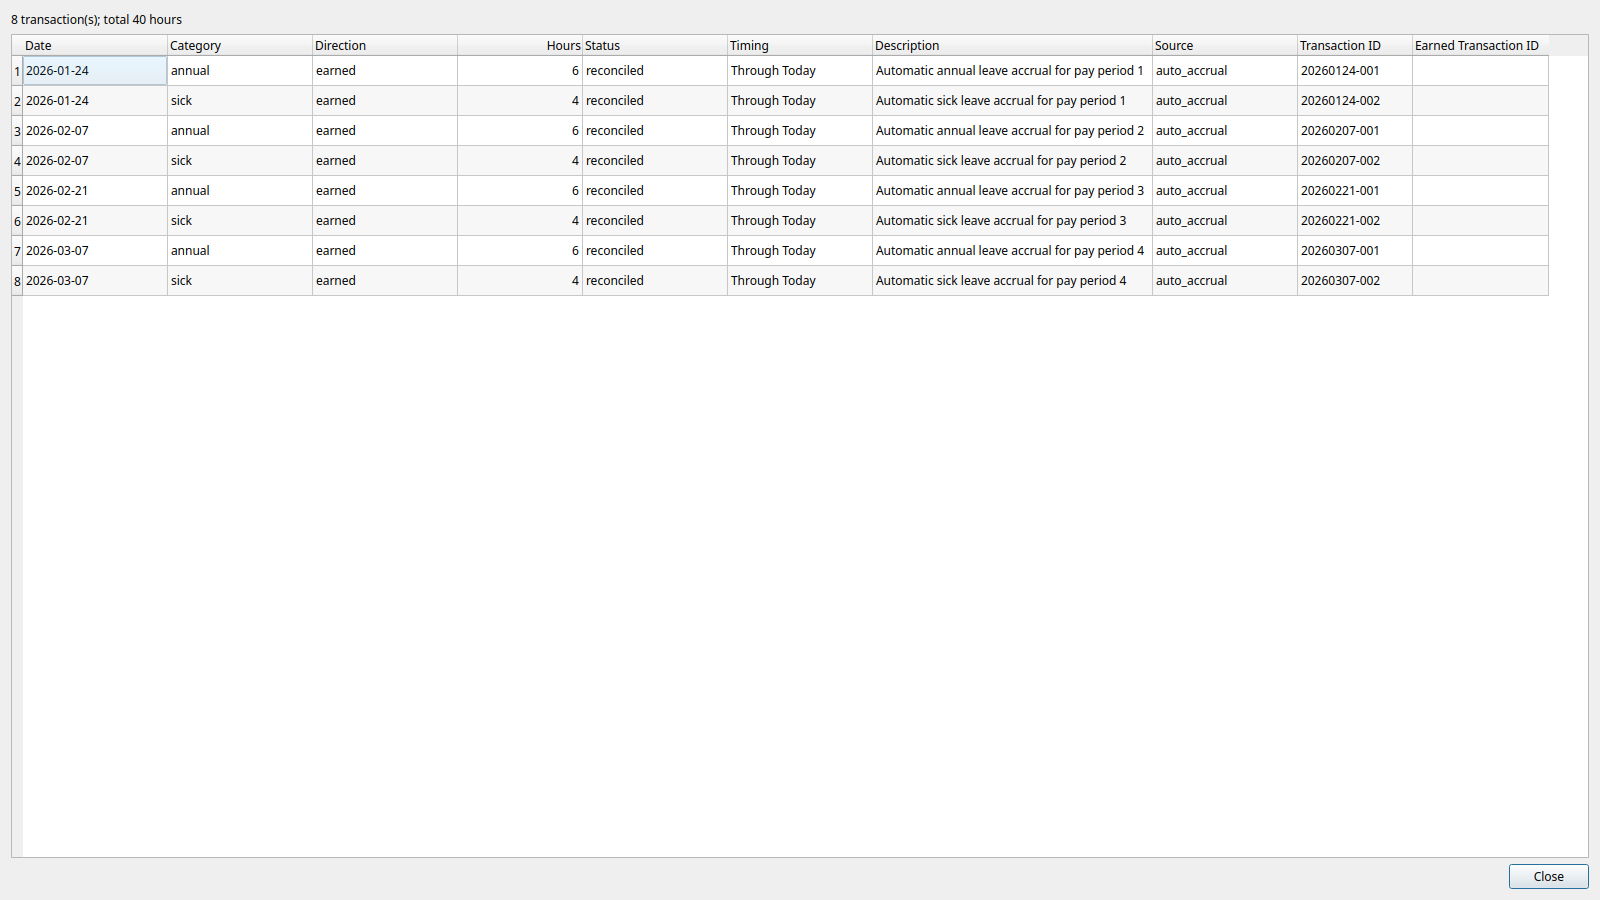
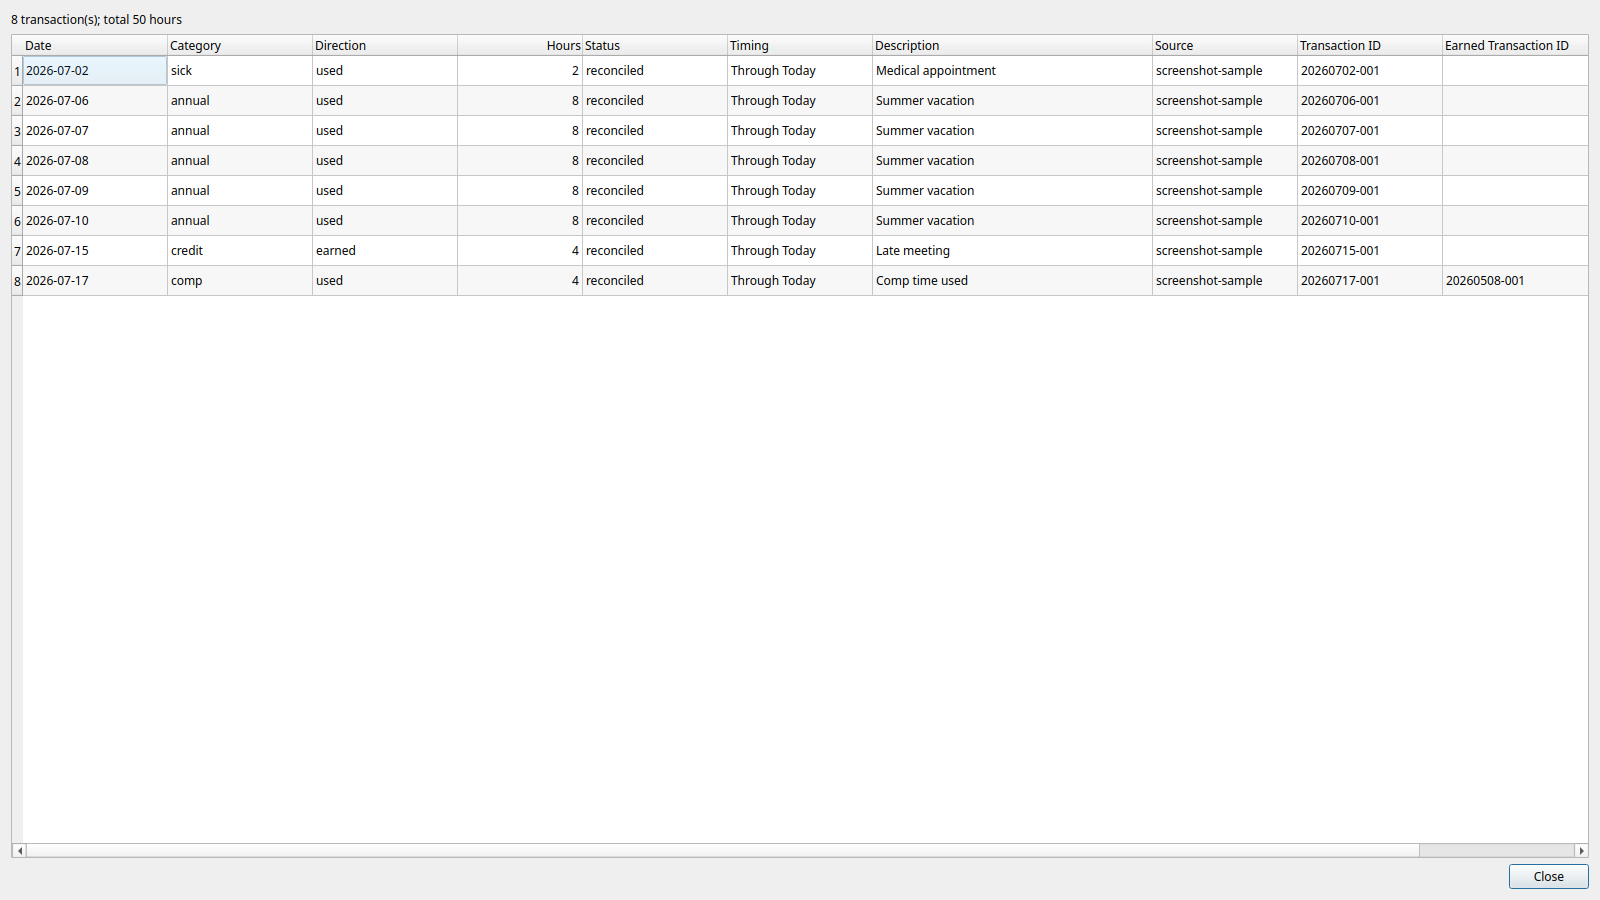
Improve GUI and analytics screenshots

diff --git a/scripts/lib/common/generate_readme_screenshots.py b/scripts/lib/common/generate_readme_screenshots.py
@@ -2,6 +2,7 @@ from __future__ import annotations
 
 import json
 import os
+from datetime import date
 from pathlib import Path
 import subprocess
 import sys
@@ -53,20 +54,41 @@ def _sample_data(data_dir: Path) -> None:
         leave_year = load_json(path)
         entries = [
             (f"{year}-02-06", "annual", "used", 8, "Winter annual leave"),
-            (f"{year}-03-17", "sick", "used", 4, "Medical appointment"),
-            (f"{year}-04-11", "credit", "earned", 3 + index, "Project support"),
-            (f"{year}-04-18", "credit", "used", 2, "Credit hours used"),
-            (f"{year}-05-09", "comp", "earned", 6 + index, "Release support"),
+            (f"{year}-02-20", "sick", "used", 4, "Medical appointment"),
+            (f"{year}-03-06", "annual", "used", 8, "Long weekend"),
+            (f"{year}-03-17", "sick", "used", 8, "Sick leave"),
+            (f"{year}-03-27", "overtime", "worked", 4 + index, "Quarter-end support"),
+            (f"{year}-04-10", "credit", "earned", 3 + index, "Project support"),
+            (f"{year}-04-17", "credit", "used", 2, "Credit hours used"),
+            (f"{year}-04-24", "annual", "used", 8, "Annual leave"),
+            (f"{year}-05-08", "comp", "earned", 8 + index, "Release support"),
             (f"{year}-05-22", "overtime", "worked", 5 + index, "Overtime worked"),
-            (f"{year}-06-12", "travel_comp", "earned", 8, "Official travel"),
-            (f"{year}-06-26", "time_off_award", "earned", 8, "Time-off award"),
-            (f"{year}-07-03", "annual", "used", 16 + index * 2, "Summer leave"),
-            (f"{year}-07-17", "comp", "used", 3, "Comp time used"),
-            (f"{year}-08-14", "annual", "used", 8, "Scheduled annual leave"),
-            (f"{year}-09-04", "sick", "used", 8, "Scheduled medical leave"),
+            (f"{year}-05-29", "sick", "used", 4, "Medical appointment"),
+            (f"{year}-06-05", "travel_comp", "earned", 10, "Official travel"),
+            (f"{year}-06-12", "time_off_award", "earned", 16, "Time-off award"),
+            (f"{year}-06-19", "travel_comp", "used", 4, "Travel comp used"),
+            (f"{year}-06-26", "annual", "used", 8, "Annual leave"),
+            (f"{year}-07-02", "sick", "used", 2, "Medical appointment"),
+            (f"{year}-07-06", "annual", "used", 8, "Summer vacation"),
+            (f"{year}-07-07", "annual", "used", 8, "Summer vacation"),
+            (f"{year}-07-08", "annual", "used", 8, "Summer vacation"),
+            (f"{year}-07-09", "annual", "used", 8, "Summer vacation"),
+            (f"{year}-07-10", "annual", "used", 8, "Summer vacation"),
+            (f"{year}-07-15", "credit", "earned", 2 + index, "Late meeting"),
+            (f"{year}-07-17", "comp", "used", 4, "Comp time used"),
+            (f"{year}-07-21", "sick", "used", 2, "Medical appointment"),
+            (f"{year}-07-24", "travel_comp", "used", 4, "Travel comp used"),
+            (f"{year}-07-31", "time_off_award", "used", 8, "Time-off award used"),
+            (f"{year}-08-14", "annual", "used", 8, "Annual leave"),
+            (f"{year}-08-28", "credit", "used", 3, "Credit hours used"),
+            (f"{year}-09-04", "sick", "used", 8, "Medical leave"),
+            (f"{year}-09-18", "comp", "earned", 6 + index, "Deployment support"),
             (f"{year}-10-09", "overtime", "worked", 7 + index, "Quarter-end support"),
-            (f"{year}-11-20", "annual", "used", 24, "Holiday leave"),
+            (f"{year}-10-23", "comp", "forfeited", 2, "Comp time forfeited"),
+            (f"{year}-11-20", "annual", "used", 24, "Thanksgiving leave"),
+            (f"{year}-12-04", "sick", "used", 4, "Medical appointment"),
             (f"{year}-12-18", "annual", "used", 16, "Year-end leave"),
+            (f"{year}-12-23", "time_off_award", "used", 4, "Time-off award used"),
         ]
         existing_ids = [str(tx.get("id", "")) for tx in leave_year.get("transactions", [])]
         for day, category, direction, hours, description in entries:
@@ -158,10 +180,15 @@ def _chart_screenshots(data_dir: Path) -> None:
 
 
 def _capture(widget: Any, path: Path, width: int, height: int, app: Any) -> None:
+    from PySide6.QtCore import QCoreApplication, QEvent
+
+    QCoreApplication.sendPostedEvents(None, QEvent.DeferredDelete)
     widget.resize(width, height)
     widget.show()
     for _ in range(5):
         app.processEvents()
+    QCoreApplication.sendPostedEvents(None, QEvent.DeferredDelete)
+    app.processEvents()
     image = widget.grab()
     if not image.save(str(path), "PNG"):
         raise RuntimeError(f"Could not save screenshot: {path}")
@@ -172,7 +199,7 @@ def _capture(widget: Any, path: Path, width: int, height: int, app: Any) -> None
 def _gui_screenshots(data_dir: Path) -> None:
     os.environ.setdefault("QT_QPA_PLATFORM", "offscreen")
     from PySide6.QtCore import QDate
-    from PySide6.QtWidgets import QApplication
+    from PySide6.QtWidgets import QAbstractItemView, QApplication, QSplitter
 
     from fedleave_analytics.analytics import analyze_leave_year
     from fedleave.storage import load_json
@@ -194,7 +221,7 @@ def _gui_screenshots(data_dir: Path) -> None:
     window.month = 7
     window.balance_as_of = window.today
     window.refresh()
-    _capture(window, EXAMPLES / "fedleave-calendar-main-screen.png", 1920, 1080, app)
+    _capture(window, EXAMPLES / "fedleave-calendar-main-screen.png", 2560, 1440, app)
 
     day = {
         "date": "2026-07-17",
@@ -269,13 +296,38 @@ def _gui_screenshots(data_dir: Path) -> None:
             "leave_year_end": payload["leave_year_end"],
             "transactions": payload["transactions"],
             "available_leave_years": [2024, 2025, 2026],
-        }
+        },
+        date(2026, 7, 22),
     )
     analytics = AnalyticsWindow(BACKEND, str(data_dir), 2026, font_size=11, auto_load=False)
     analytics.set_data(analytics_data)
+    analytics.pages.setCurrentIndex(0)
     _capture(analytics, EXAMPLES / "fedleave-analytics-main.png", 1920, 1080, app)
 
-    detail_rows = analytics_data["transactions"][:8]
+    analytics.pages.setCurrentIndex(1)
+    analytics.seasonality_selector.setCurrentText("Leave Used by Month")
+    _capture(analytics, EXAMPLES / "fedleave-analytics-seasonality.png", 1920, 1080, app)
+
+    analytics.pages.setCurrentIndex(2)
+    for row in range(analytics.heatmap_table.rowCount()):
+        item = analytics.heatmap_table.item(row, 0)
+        if item is not None and item.text() == "2026-07-02":
+            analytics.heatmap_table.scrollToItem(item, QAbstractItemView.PositionAtTop)
+            break
+    _capture(analytics, EXAMPLES / "fedleave-analytics-calendar-heatmap.png", 1920, 1080, app)
+
+    analytics.pages.setCurrentIndex(3)
+    analytics.lifecycle_tabs.setCurrentIndex(4)
+    lifecycle_splitter = analytics.overtime_comp_page.findChild(QSplitter)
+    if lifecycle_splitter is not None:
+        lifecycle_splitter.setSizes([500, 300])
+    _capture(analytics, EXAMPLES / "fedleave-analytics-overtime-comp-credit.png", 1920, 1080, app)
+
+    detail_rows = [
+        row
+        for row in analytics_data["transactions"]
+        if row.get("source") == "screenshot-sample" and str(row.get("date", "")).startswith("2026-07")
+    ][:8]
     _capture(
         TransactionDialog(detail_rows),
         EXAMPLES / "fedleave-analytics-supporting-transactions.png",

diff --git a/fedleave_analytics/charts.py b/fedleave_analytics/charts.py
@@ -5,7 +5,7 @@ from pathlib import Path
 from typing import Any
 
 from PySide6.QtCore import Qt
-from PySide6.QtGui import QAction, QColor, QFont, QPainter, QPen, QPixmap
+from PySide6.QtGui import QAction, QColor, QFont, QFontMetrics, QPainter, QPen, QPixmap
 from PySide6.QtPrintSupport import QPrintDialog, QPrinter
 from PySide6.QtWidgets import (
     QDialog,
@@ -79,6 +79,7 @@ def table_widget(rows: list[dict[str, Any]], columns: list[tuple[str, str]]) -> 
             table.setItem(row_index, column_index, item)
     table.resizeColumnsToContents()
     table.horizontalHeader().setSectionResizeMode(QHeaderView.Interactive)
+    font_metrics = QFontMetrics(table.horizontalHeader().font())
     for column_index, (key, label) in enumerate(columns):
         current = table.columnWidth(column_index)
         if key == "month":
@@ -95,7 +96,8 @@ def table_widget(rows: list[dict[str, Any]], columns: list[tuple[str, str]]) -> 
             preferred = 145
         else:
             preferred = 115
-        table.setColumnWidth(column_index, max(current, preferred))
+        header_width = font_metrics.horizontalAdvance(label) + 64
+        table.setColumnWidth(column_index, max(current, preferred, header_width))
     table.horizontalHeader().sectionClicked.connect(lambda section, current=table: _enable_sorting(current, section))
     table.setAlternatingRowColors(True)
     return table
@@ -199,6 +201,11 @@ def render_horizontal_bar_chart(
         painter.setFont(title_font)
         painter.drawText(60, 30, WIDTH - 120, 55, Qt.AlignCenter, title)
 
+        body_font = QFont(painter.font())
+        body_font.setPointSize(10)
+        body_font.setBold(False)
+        painter.setFont(body_font)
+
         left, top, right, bottom = 190, 145, WIDTH - 65, HORIZONTAL_HEIGHT - 80
         values = [float(row.get(key) or 0) for row in rows for key, _label in series]
         minimum = min([0.0, *values])
@@ -223,9 +230,6 @@ def render_horizontal_bar_chart(
 
         row_height = (bottom - top) / max(1, len(rows))
         bar_height = max(3.0, min(22.0, row_height * 0.72 / max(1, len(series))))
-        body_font = QFont(painter.font())
-        body_font.setPointSize(10)
-        painter.setFont(body_font)
         for row_index, row in enumerate(rows):
             center_y = top + row_height * (row_index + 0.5)
             painter.setPen(QColor(TEXT))

diff --git a/tests/test_analytics_gui.py b/tests/test_analytics_gui.py
@@ -5,6 +5,7 @@ from pathlib import Path
 os.environ.setdefault("QT_QPA_PLATFORM", "offscreen")
 
 from PySide6.QtCore import Qt
+from PySide6.QtGui import QFontMetrics
 from PySide6.QtWidgets import QApplication, QFileDialog
 
 from fedleave_analytics.analytics import analyze_leave_year
@@ -114,6 +115,19 @@ def test_table_headers_match_data_alignment_and_have_role_based_widths():
     assert table.columnWidth(0) >= 180
     assert table.columnWidth(1) >= 180
     assert table.columnWidth(2) >= 180
+
+    long_headers = table_widget(
+        [{"month": "Jan 2026", "credit_earned": 2, "combined_additional_work": 3}],
+        [
+            ("month", "Month"),
+            ("credit_earned", "Credit Earned or Worked"),
+            ("combined_additional_work", "Combined Additional Work"),
+        ],
+    )
+    metrics = QFontMetrics(long_headers.horizontalHeader().font())
+    for column in (1, 2):
+        label = long_headers.horizontalHeaderItem(column).text()
+        assert long_headers.columnWidth(column) >= metrics.horizontalAdvance(label) + 64
 
 
 def test_dynamic_heatmaps_and_monthly_lifecycle_charts_are_populated():

diff --git a/tests/test_readme_screenshots.py b/tests/test_readme_screenshots.py
@@ -18,6 +18,9 @@ EXPECTED_SCREENSHOTS = {
     "examples/fedleave-calendar-expiring-leave.png",
     "examples/fedleave-calendar-transactions.png",
     "examples/fedleave-analytics-main.png",
+    "examples/fedleave-analytics-seasonality.png",
+    "examples/fedleave-analytics-calendar-heatmap.png",
+    "examples/fedleave-analytics-overtime-comp-credit.png",
     "examples/fedleave-analytics-supporting-transactions.png",
     "examples/annual-leave-chart-sample.png",
     "examples/sick-leave-chart-sample.png",
@@ -60,3 +63,5 @@ def test_readme_identifies_fedleave_as_main_and_analytics_as_a_companion() -> No
     companion_section = text.split("## Companion Applications", 1)[1]
     assert "### Companion Application: FedLeaveAnalytics" in companion_section
     assert "View > Analytics..." in companion_section
+    for page in ("Summary", "Seasonality", "Calendar Heatmap", "Overtime, Comp, and Credit"):
+        assert page in companion_section

diff --git a/tests/test_gui_day_cell.py b/tests/test_gui_day_cell.py
@@ -3,7 +3,7 @@ import os
 os.environ.setdefault("QT_QPA_PLATFORM", "offscreen")
 
 from PySide6.QtCore import Qt
-from PySide6.QtWidgets import QApplication
+from PySide6.QtWidgets import QApplication, QSizePolicy
 
 from fedleave_gui.main_window import DayCell
 from fedleave_gui.settings import GuiSettings
@@ -31,3 +31,5 @@ def test_day_number_is_in_upper_right_and_details_remain_left_aligned():
     assert cell.details_label.alignment() & Qt.AlignTop
     assert cell.details_label.text() == "A        -4\nPay day"
     assert cell.display_text() == "8\nA        -4\nPay day"
+    assert cell.sizePolicy().horizontalPolicy() == QSizePolicy.Expanding
+    assert cell.sizePolicy().verticalPolicy() == QSizePolicy.Expanding

diff --git a/fedleave_gui/main_window.py b/fedleave_gui/main_window.py
@@ -239,6 +239,7 @@ class DayCell(QPushButton):
         super().__init__()
         self.day = day
         self.setMinimumSize(112, 92)
+        self.setSizePolicy(QSizePolicy.Expanding, QSizePolicy.Expanding)
         self.setCursor(Qt.PointingHandCursor)
         self._display_text = self._text_for_day(settings)
         lines = self._display_text.splitlines()

diff --git a/README.md b/README.md
@@ -634,16 +634,36 @@ directly, or choose **View > Analytics...** in `FedLeaveCalendar`; the calendar
 passes its selected backend, leave year, font size, PDF folder, and exact
 resolved data directory.
 
-![FedLeave Analytics summary](examples/fedleave-analytics-main.png)
-
-![FedLeave Analytics supporting-transactions dialog](examples/fedleave-analytics-supporting-transactions.png)
-
 The four pages are Summary, Seasonality, Calendar Heatmap, and Overtime, Comp,
 and Credit. Monthly views combine horizontal bar charts with their supporting
 tables. Time-based tables distinguish Through Today, Future Scheduled, and Full
 Leave Year values; double-clicking a row opens its supporting transactions.
 The application never modifies leave data or displays backend/data-directory
 diagnostics in the user interface.
+
+Summary provides the headline leave-use, overtime, comp-time, credit-hour, and
+data-quality measures for the selected leave year:
+
+![FedLeave Analytics summary](examples/fedleave-analytics-main.png)
+
+Seasonality compares leave use and work patterns by month, weekday, and pay
+period, with a chart and the exact values shown together:
+
+![FedLeave Analytics seasonality](examples/fedleave-analytics-seasonality.png)
+
+Calendar Heatmap shows when leave was used or time was earned. Its selector only
+offers leave types and directions that have non-zero data:
+
+![FedLeave Analytics calendar heatmap](examples/fedleave-analytics-calendar-heatmap.png)
+
+Overtime, Comp, and Credit explains earned, used, paid-out, forfeited, expired,
+and outstanding hours, including monthly charts and supporting tables:
+
+![FedLeave Analytics overtime, comp, and credit analysis](examples/fedleave-analytics-overtime-comp-credit.png)
+
+Double-click a table row to inspect the transactions supporting that result:
+
+![FedLeave Analytics supporting-transactions dialog](examples/fedleave-analytics-supporting-transactions.png)
 
 ```bash
 FedLeaveAnalytics --backend /path/to/fedleave --year 2026 \
